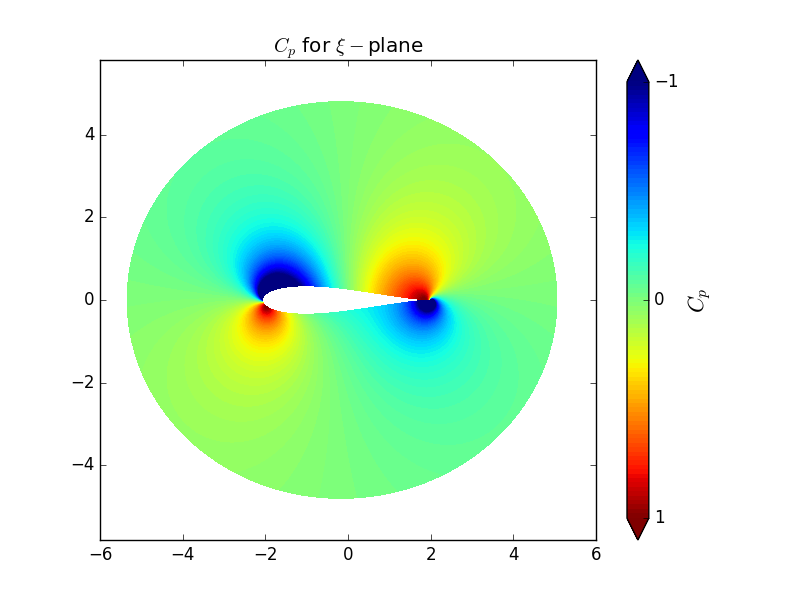
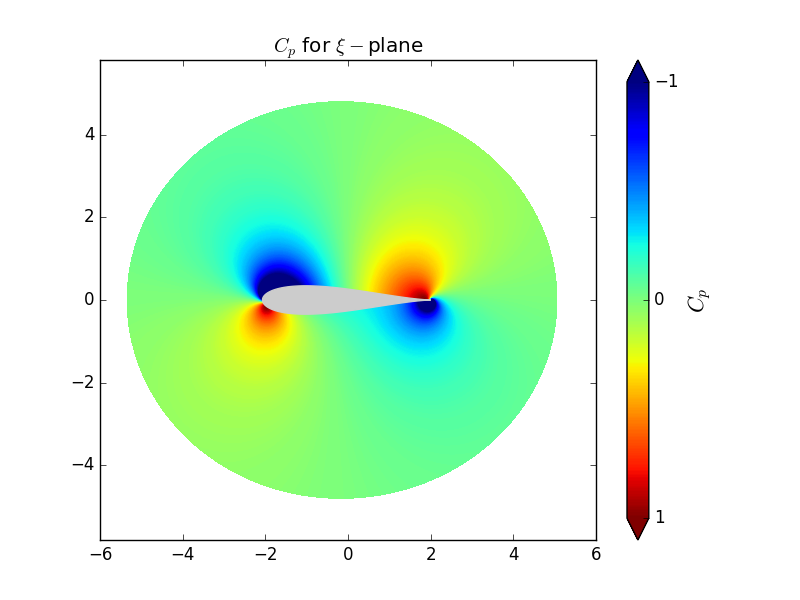
Assingment done

Changed region(s): [[0.3125, 0.45, 0.5312, 0.54]]

diff --git a/coding-assignments/joukowski/vortex.py b/coding-assignments/joukowski/vortex.py
@@ -1,0 +1,281 @@
+import numpy as np
+import matplotlib.pyplot as plt
+
+
+# Airfoil
+
+c = 1
+AOA = 20
+
+xc, yc = -0.15, 0
+R = 1.15
+
+# Other
+
+# xc, yc = -0.2, 0.3
+# R = c * np.sqrt((1 + abs(xc))**2 + yc**2)
+
+# Cylindrical grid
+
+Nr = 100
+Nth = 145
+
+radial = np.linspace(R, 5, Nr)
+axial = np.linspace(0, 2 * np.pi, Nth)
+
+X = radial * np.cos(axial.reshape((Nth, 1))) + xc
+Y = radial * np.sin(axial.reshape((Nth, 1))) + yc
+
+# Flow
+
+u_inf = 1
+
+# Functions
+
+
+def axis_rotation(x, y, xc, yc, AOA):
+    """
+    Originaly the cylinder is at (xc, yc), the axis
+    transformation moves it to the center
+    """
+
+    # To radians
+    AOA = AOA * np.pi / 180
+
+    xp = (x - xc) * np.cos(AOA) + (y - yc) * np.sin(AOA)
+    yp = -(x - xc) * np.sin(AOA) + (y - yc) * np.cos(AOA)
+
+    return xp, yp
+
+
+def map_function(z, c):
+
+    return z + (c**2 / z)
+
+
+def get_velocity_doublet(kappa, xc, yc, X, Y):
+
+    u = - kappa / (2 * np.pi) * (((X - xc)**2 - (Y - yc)**2) /
+                                 ((X - xc)**2 + (Y - yc)**2)**2)
+
+    v = (- kappa / np.pi * (X - xc) * (Y - yc) /
+         ((X - xc)**2 + (Y - yc)**2)**2)
+
+    return u, v
+
+
+def get_stream_function_doublet(kappa, xc, yc, X, Y):
+
+    psi = - kappa / (2 * np.pi) * (Y - yc) / ((X - xc)**2 + (Y - yc)**2)
+
+    return psi
+
+
+def get_velocity_vortex(gamma, xc, yc, X, Y):
+
+    u = + gamma / (2 * np.pi) * (Y - yc) / ((X - xc)**2 + (Y - yc)**2)
+    v = - gamma / (2 * np.pi) * (X - xc) / ((X - xc)**2 + (Y - yc)**2)
+    return u, v
+
+
+def get_stream_function_vortex(gamma, xc, yc, X, Y):
+
+    psi = gamma / (4 * np.pi) * np.log((X - xc)**2 + (Y - yc)**2)
+
+    return psi
+
+
+def plot_plane(x, y, title=None):
+
+    plt.figure()
+
+    plt.xlim(-5, 5)
+    plt.ylim(-6, 6)
+
+    plt.title(title)
+
+    plt.scatter(x, y, s=0.5, c='k')
+
+    plt.axis('equal')
+
+
+def plot_stream(x, y, psi, title=None):
+
+    plt.figure()
+
+    plt.xlim(-5, 5)
+    plt.ylim(-6, 6)
+
+    plt.title(title)
+
+    levels = np.linspace(psi.min(), psi.max(), 45)
+
+    plt.contour(x, y, psi, colors='k',
+                levels=levels, linewidths=1, linestyles='solid')
+
+    plt.axis('equal')
+
+
+def plot_velocity(x, y, u, v, title=None):
+
+    plt.figure()
+
+    plt.xlim(-5, 5)
+    plt.ylim(-6, 6)
+
+    plt.title(title)
+
+    plt.quiver(x, y, u, v)
+
+    plt.axis('equal')
+
+
+def plot_cp(x, y, cp, title=None):
+
+    plt.figure()
+
+    plt.xlim(-5, 5)
+    plt.ylim(-6, 6)
+
+    plt.title(title)
+
+    # cmap = plt.cm.coolwarm
+
+    levels = np.linspace(-1.0, 1.0, 300)
+    contf = plt.contourf(x, y, cp,
+                         levels=levels, extend='both')  # , cmap=cmap)
+
+    cbar = plt.colorbar(contf)
+    cbar.set_label('$C_p$', fontsize=16)
+    cbar.ax.invert_yaxis()
+    cbar.set_ticks([-2.0, -1.0, 0.0, 1.0])
+
+    p = plt.Polygon(list(zip(x[:, 0], y[:, 0])), color="#cccccc", zorder=10)
+    plt.gca().add_patch(p)
+
+    plt.gca().set_aspect(1)
+
+    plt.axis('equal')
+
+
+if __name__ == '__main__':
+
+    # Plot cylindrical grid
+
+    Xr, Yr = axis_rotation(X, Y, xc, yc, AOA)
+
+    plot_plane(Xr, Yr, title=r'$z-$plane')
+    plt.savefig('./images/z-plane.png')
+    plt.close()
+
+    # Conformal mapping
+
+    z = X + Y * 1j  # xi is done with z, not z'
+
+    xi = map_function(z, c)
+
+    # Plot transformed grid
+
+    plot_plane(np.real(xi), np.imag(xi),  title=r'$\xi-$plane')
+    plt.savefig('./images/xi-plane.png')
+    plt.close()
+
+    # Doublet
+    # Doublet must be always placed at (0, 0),
+    # and computed in the z-plane, not z'.
+    # The same applies for the velocity
+
+    kappa = 2 * np.pi * u_inf * R**2
+
+    u_doublet, v_doublet = get_velocity_doublet(kappa, 0, 0, Xr, Yr)
+
+    psi_doublet = get_stream_function_doublet(kappa, 0, 0, Xr, Yr)
+
+    # Freestream
+
+    u_freestream = u_inf * np.ones((Nth, Nr), dtype=float)
+    v_freestream = np.zeros((Nth, Nr), dtype=float)
+
+    psi_freestream = u_inf * Yr  # At z, not z'
+
+    # Vortex
+
+    # gamma calculation taken from Anderson's book
+
+    theta = - AOA
+
+    gamma = - 4 * np.pi * u_inf * R * np.sin(theta * np.pi / 180)
+
+    u_vortex, v_vortex = get_velocity_vortex(gamma, 0, 0, Xr, Yr)
+
+    psi_vortex = get_stream_function_vortex(gamma, 0, 0, Xr, Yr)
+
+    # Cylinder flow
+
+    u_cylinder = u_doublet + u_freestream + u_vortex
+    v_cylinder = v_doublet + v_freestream + v_vortex
+
+    psi_cylinder = psi_doublet + psi_freestream + psi_vortex
+
+    plot_stream(X, Y, psi_cylinder, title=r'$\psi$ for $z-$plane')
+    plt.savefig('./images/phi-z-plane.png')
+    plt.close()
+
+    # Airfoil stream
+
+    plot_stream(np.real(xi), np.imag(xi), psi_cylinder,
+                title=r'$\psi$ for $\xi-$plane')
+    plt.savefig('./images/phi-xi-plane.png')
+    plt.close()
+
+    # Airfoil velocity
+
+    # Velocity vectors need to be rotated back from the z' plane
+    # to the z plane
+    u_cylinder, v_cylinder = axis_rotation(
+        u_cylinder, v_cylinder, 0, 0, AOA)
+
+    z = X + Y * 1j  # xi is done using z not z'
+
+    xi = map_function(z, c)
+
+    W = (u_cylinder - v_cylinder * 1j) / (1 - (c / z)**2)
+
+    u_airfoil = np.real(W)
+    v_airfoil = - np.imag(W)
+
+    plot_velocity(X, Y, u_cylinder, v_cylinder,
+                  title=r'Velocity for $z-$plane')
+    plt.savefig('./images/velocity-z-plane.png')
+    plt.close()
+
+    plot_velocity(np.real(xi), np.imag(xi), u_airfoil, v_airfoil,
+                  title=r'Velocity for $\xi-$plane')
+    plt.savefig('./images/velocity-xi-plane.png')
+    plt.close()
+
+    # Pressure coefficient
+
+    cp_cylinder = 1 - (u_cylinder**2 + v_cylinder**2) / u_inf**2
+    cp_airfoil = 1 - (u_airfoil**2 + v_airfoil**2) / u_inf**2
+
+    plot_cp(X, Y, cp_cylinder, title=r'$C_p$ for $z-$plane')
+    plt.savefig('./images/cp-z-plane.png')
+    plt.close()
+
+    plot_cp(np.real(xi), np.imag(xi), cp_airfoil,
+            title=r'$C_p$ for $\xi-$plane')
+    plt.savefig('./images/cp-xi-plane.png')
+    plt.close()
+
+    # Questions
+
+    print(gamma)
+    print(np.where(cp_cylinder[:, 0] == 1))
+    print(u_airfoil[49, 0], v_airfoil[49, 0])
+    print(cp_airfoil[110, 0])
+
+#    plt.plot(axial[1:-1], (u_airfoil[1:-1, 0]), c='r', lw=2)
+#    plt.plot(axial[1:-1], (v_airfoil[1:-1, 0]), c='g', lw=2)
+#    plt.plot(axial[3:-3], cp_airfoil[3:-3, 0], c='b', lw=2)
+#    plt.show()
